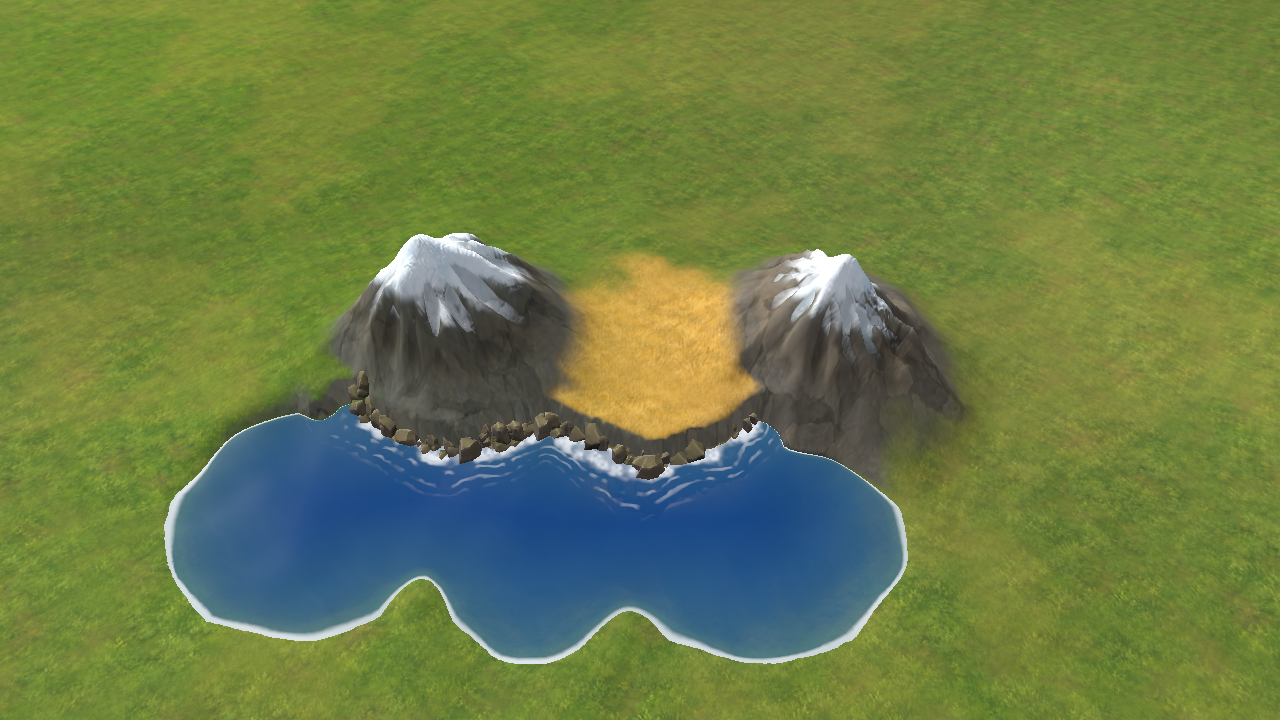
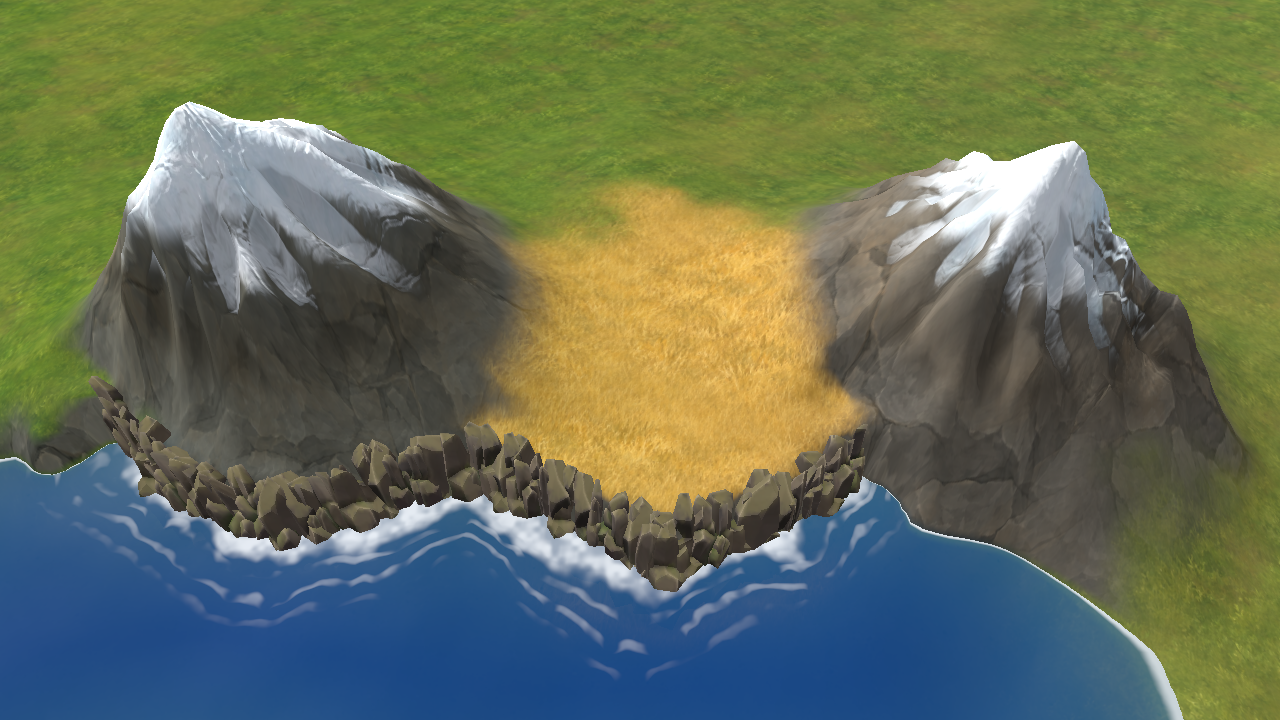
fix(terrain): stand the cliff rock wall from the seabed to the bluff top
The rock columns along a coastal cliff still left a band of bare grey mesh
showing between the land texture and their tips. Their top probe read the
highest dry ground inland, their scale solved against 0.14 units of model
height when every rock model is 0.16 tall, and their spacing skipped slots,
so the wall was short, thin and full of windows onto the cliff face behind.

- Cliff columns (`src/Civ.Client.Core/Terrain/TerrainField.cs`):
  - Introduce `CliffRockHeight` (0.16) as the model's geometry height at scale
    1, measured from `art/scatter/rocks/Rock_*.glb`, and solve the uniform scale
    from the span a column must cover. The older 0.14 divisor left every
    column a ninth short of the bluff it was sized for.
  - Carry the height in the vertical stretch (2.1-2.8) instead of the uniform
    scale, and clamp only the lower bound. A tall slender pillar hides the mesh
    face with its thick body and crests the bluff with its tip; the previous
    shared scale-and-stretch growth turned long columns into boulders.
  - Take the top from the ground just inside the waterline, never below the
    plateau the cliff tile stands on (`FlatBase + CliffRise` with the flat
    noise). A hex corner where two water tiles meet dips under the plateau, so
    a local sample alone fell short of the face and left the gap.
  - Raise `CliffRocksPerEdge` from 16 to 22 so the slightly jittered slots still
    overlap: one column per slot covers the edge and the wall reads as a
[…]

diff --git a/src/Civ.Client.Core/Terrain/TerrainField.cs b/src/Civ.Client.Core/Terrain/TerrainField.cs
@@ -534,7 +534,11 @@ public sealed class TerrainField
     public readonly record struct CliffRock(double X, double Y, double Z, int Tile, double Model, double Yaw, double Scale, double Stretch);
 
     /// <summary>Rock columns per cliff edge. The wall reads as a rampart of separate pillars, not a smooth face.</summary>
-    public const int CliffRocksPerEdge = 16;
+    public const int CliffRocksPerEdge = 22;
+
+    /// <summary>Height of the rock model geometry at scale 1, in world units: the column placement solves the scale from
+    /// the height it must span so its thick body, not just its pointed tip, reaches the bluff.</summary>
+    public const double CliffRockHeight = 0.16;
 
     /// <summary>The rock wall of every known cliff edge whose land tile centre lies within 1.5 of the rectangle (x0..x1,
     /// z0..z1), canonical x. Each column stands on the seabed at the cliff line and reaches a little above the bluff top,
@@ -583,25 +587,38 @@ public sealed class TerrainField
                 px = qx - ox * Tuning.WarpAmplitude;
                 pz = qz - oz * Tuning.WarpAmplitude;
             }
-            // March out to sea across the edge: the last ground above the water is the cliff top, the first below it the foot.
-            double top = double.MinValue, foot = 0, line = double.NaN;
-            for (double o = -0.35; o <= 0.4; o += 0.015)
+            // March out to sea across the edge: the first wet sample marks the waterline. A coarse march brackets it and a
+            // short bisection pins it, which costs about two dozen height samples per column instead of the fifty a fine
+            // march would take; every cliff edge carries a wall of columns, so that difference is map load time.
+            double line = double.NaN;
+            for (double o = -0.35; o < 0.4; o += 0.05)
             {
-                double h = HeightAt(px + nx * o, pz + nz * o);
-                if (h >= 0) { top = h; continue; }
-                line = o;
-                foot = HeightAt(px + nx * (o + 0.05), pz + nz * (o + 0.05));
-                break;
+                if (HeightAt(px + nx * o, pz + nz * o) < 0) { line = o; break; }
             }
-            if (!double.IsNaN(line)) top = Math.Max(top, HeightAt(px + nx * (line - 0.1), pz + nz * (line - 0.1)));
-            // Columns only where the bluff really stands (its ends fade where a beach takes over).
-            if (double.IsNaN(line) || top < 0.05) continue;
-            double cx = px + nx * (line - 0.025), cz = pz + nz * (line - 0.025);
+            if (double.IsNaN(line)) continue;
+            double lo = line - 0.05, hi = line;
+            while (hi - lo > 1e-3)
+            {
+                double mid = 0.5 * (lo + hi);
+                if (HeightAt(px + nx * mid, pz + nz * mid) < 0) hi = mid; else lo = mid;
+            }
+            line = hi;
+            // Just beyond the waterline the seabed the column stands on. Marching only 0.05 out keeps the foot on the
+            // cliff's own shelf instead of far out on the deep floor, which would make every column a tower.
+            double foot = HeightAt(px + nx * (line + 0.05), pz + nz * (line + 0.05));
+            // The brink is the top of the rock face, not the highest ground inland: it is the bluff the land material
+            // crests, sampled just inside the waterline, and never below the plateau a cliff tile stands on. A hex corner
+            // where two water tiles meet dips under the plateau, so a local sample alone can fall short of the face.
+            double top = Math.Max(HeightAt(px + nx * (line - 0.1), pz + nz * (line - 0.1)), Tuning.FlatBase + Tuning.CliffRise +
+                Tuning.FlatNoise * _noise.Fbm(px, pz, Tuning.FlatFrequency, Tuning.Octaves, salt: 2));
+            double cx = px + nx * (line - 0.04), cz = pz + nz * (line - 0.04);
             if (_wrap) cx -= Period * Math.Floor(cx / Period);
-            // Chunky columns about flush with the bluff top: a few stand a little proud, a few a little short.
-            double stretch = 0.85 + 0.35 * TileHash(tile, r + 1);
-            double height = top + 0.03 + 0.04 * TileHash(tile, r + 2) - foot;
-            double scale = Math.Clamp(height / (0.14 * stretch), 0.4, 3.2);
+            // A tall slender column from the seabed to just above the brink: its thick body hides the mesh face and its
+            // pointed tip crests the bluff. The stretch, not the uniform scale, carries the height, so the columns stay
+            // pillars instead of growing into boulders.
+            double stretch = 2.1 + 0.7 * TileHash(tile, r + 1);
+            double height = top + 0.07 + 0.07 * TileHash(tile, r + 2) - foot;
+            double scale = Math.Max(0.4, height / (CliffRockHeight * stretch));
             yield return new(cx, foot, cz, tile, TileHash(tile, r + 3), Math.Tau * TileHash(tile, r + 4), scale, stretch);
         }
     }

diff --git a/tests/Civ.Mods.Tests/TerrainMathTests.cs b/tests/Civ.Mods.Tests/TerrainMathTests.cs
@@ -293,8 +293,16 @@ public sealed class TerrainMathTests(LoadedMods mods) : IClassFixture<LoadedMods
             Assert.True(field.HeightAt(px, pz) > tuning.PeakBase + tuning.CliffRise);
             Assert.InRange(field.HeightAt((px + sx) / 2, (pz + sz) / 2), tuning.ShallowWater - 0.05, tuning.FlatBase + tuning.CliffRise + 0.08);
             var rocks = field.CliffRocks(px - 2, px + 2, pz - 2, pz + 2).Where(r => r.Tile == peakTile).ToArray();
-            Assert.NotEmpty(rocks);
-            Assert.All(rocks, r => Assert.InRange(r.Scale, 0.4, 2.75));
+            // One column per slot covers the whole edge: gaps in the wall show the bare mesh behind it.
+            Assert.Equal(TerrainField.CliffRocksPerEdge, rocks.Length);
+            double bluff = tuning.FlatBase + tuning.CliffRise;
+            Assert.All(rocks, r =>
+            {
+                double tip = r.Y + TerrainField.CliffRockHeight * r.Scale * r.Stretch;
+                Assert.True(r.Y < 0, "a cliff column stands below the water surface");
+                Assert.InRange(tip, bluff, tuning.PeakBase + tuning.CliffRise);
+                Assert.True(tip > field.HeightAt(r.X, r.Z), "a cliff column rises out of the face it stands against");
+            });
         }
     }
 
